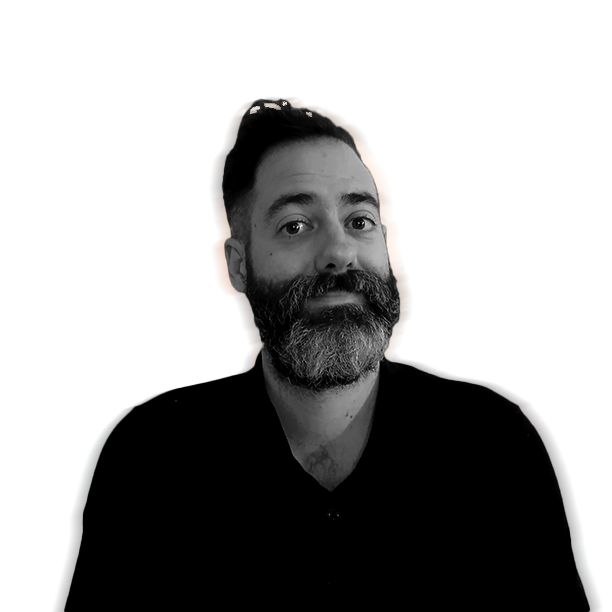
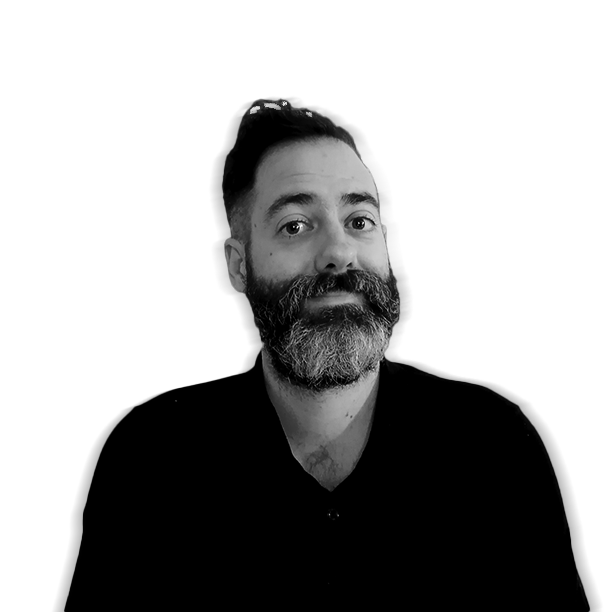
chore: ajusto las imágenes con fondo negro en lugar de rojo

Changed region(s): [[0.3725, 0.2173, 0.652, 0.4967], [0.4967, 0.5278, 0.652, 0.7451]]

diff --git a/vistas/index.html b/vistas/index.html
@@ -46,11 +46,22 @@
                     experto
                     en gamificación.
                 </p>
+                <p>Gran parte de mi carrera profesional la he dedicado a desarrollar comunidades virtuales. Soy
+                    licenciado en Comunicación Audiovidual. Las ganas de seguir creciendo profesionalmente en todo tipo
+                    de áreas
+                    creativas me ha llevado a estudiar diseño, community management, sonido, armonía moderna y, ahora,
+                    programación y desarrollo web.</p>
+                <p>
+                    Mi objetivo es comprender todos los perfiles desde los que afrontar el desarrollo de un contenido; y
+                    así, lograr que funcione para el fin con el que se ha diseñado: el plan de negocio de una empresa,
+                    arte, entretenimiento... Las motivaciones son infinitas. ¿Cuál es la tuya?
+                </p>
             </div>
             <picture class="main__info__picture">
-                <source srcset="../images/bio/red/adrian_red_200.jpg 200w, ../images/bio/red/adrian_red_612.jpg 612w">
-                <source srcset="../images/bio/red/adrian_red_small.jpg" media="(width < 992px)">
-                <img src="../images/bio/red/adrian_red_big.jpg" alt="Adrián Sotés ¡A ese!">
+                <source
+                    srcset="../images/bio/trans/adrian_transpa_scale,w_200.png 200w, ../images/bio/trans/adrian_transpa_scale,w_497.png 497w, ../images/bio/trans/adrian_transpa_scale,w_612.png 612w">
+                <!-- <source srcset="../images/bio/BN/adrian_BN_small.jpg" media="(width < 992px)"> -->
+                <img src="../images/bio/trans/adrian_transpa_big.png" alt="Adrián Sotés ¡A ese!">
             </picture>
         </section>
     </main>

diff --git a/styles/main.css b/styles/main.css
@@ -18,8 +18,11 @@
     margin: 0;
 }
 
-.main .main__section .main__info__picture {
+.main .main__section .main__info__picture img {
+    background-color: var(--main-text-color);
     padding: 0;
+
+
 }
 
 @media (width > 768px) {
@@ -50,23 +53,15 @@
         text-align: left;
     }
 
-    /*     .main .main__section .main__info__bio {
-        display: flex;
-    } */
-
     .main .main__section .main__info__picture {
         display: flex;
         justify-content: flex-end;
         width: 100%;
     }
 
-    .main .main__section .main__info__picture {
-        width: 100%;
-        height: 100;
-    }
 
     .main .main__section .main__info__picture img {
         width: 100%;
-        height: 100%;
+
     }
 }

diff --git a/styles/header.css b/styles/header.css
@@ -4,6 +4,7 @@
     top: 0;
     justify-content: space-between;
     align-items: center;
+    border-bottom: 1px solid #000;
     display: flex;
     padding: 3rem 2rem;
 }
